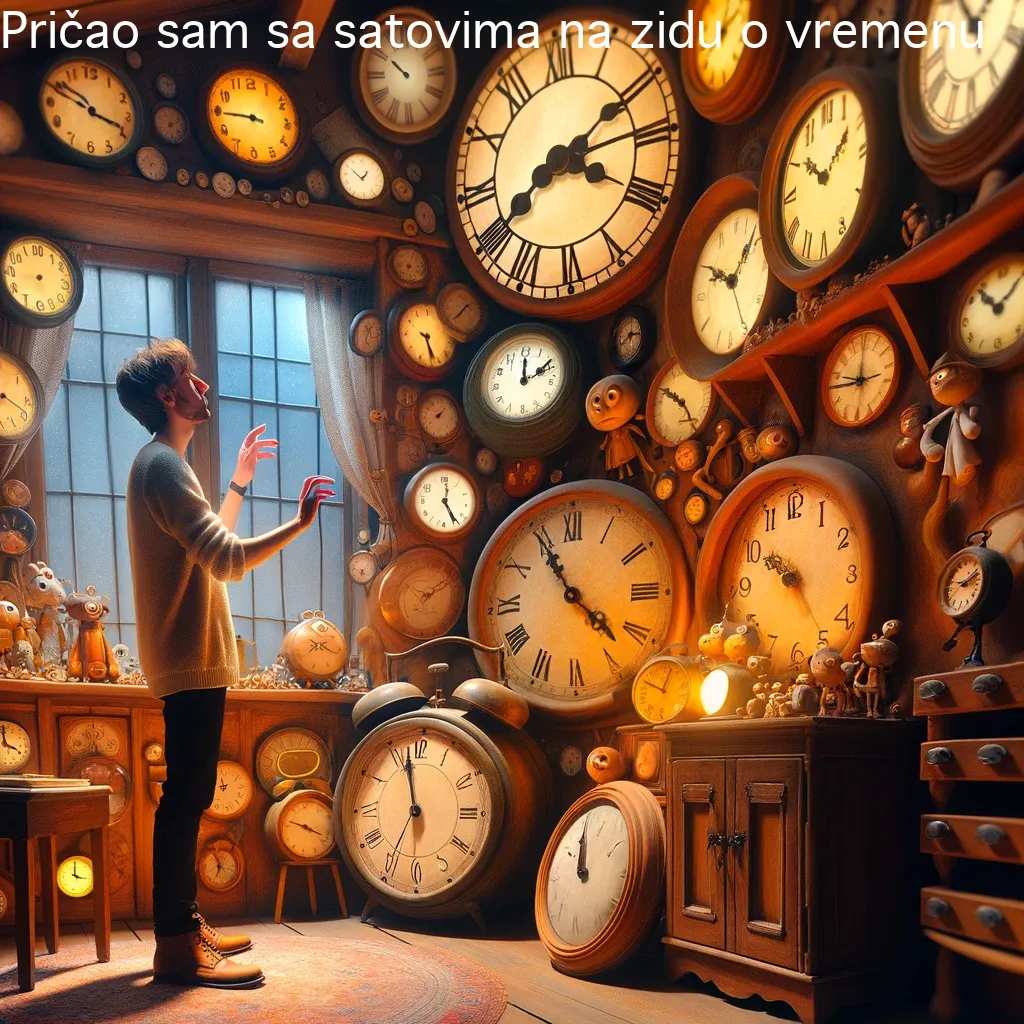
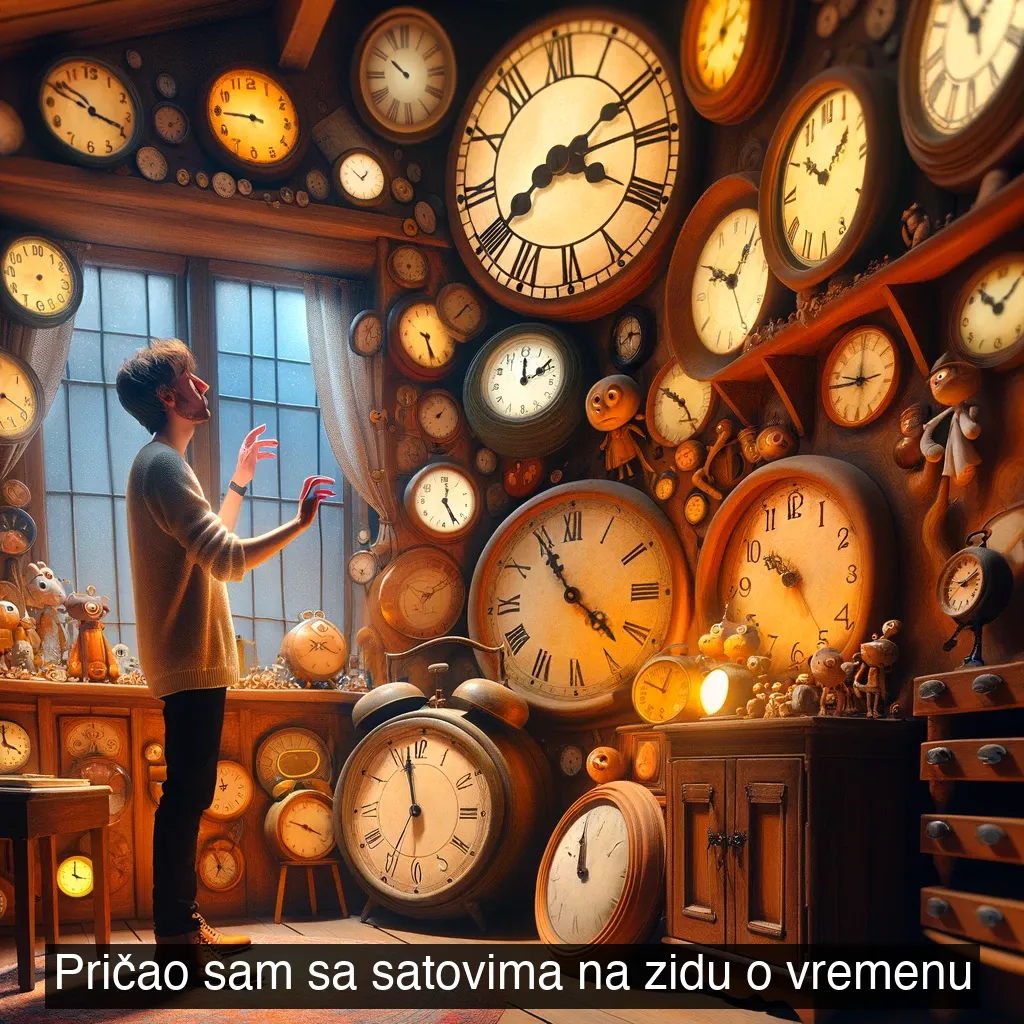
Pričao sam sa satovima na zidu o vremenu

diff --git a/chat-gpt/add-text-to-image.py b/chat-gpt/add-text-to-image.py
@@ -1,5 +1,15 @@
 from PIL import Image, ImageDraw, ImageFont
 
+#https://levelup.gitconnected.com/how-to-properly-calculate-text-size-in-pil-images-17a2cc6f51fd
+def get_text_dimensions(text_string, font):
+    # https://stackoverflow.com/a/46220683/9263761
+    ascent, descent = font.getmetrics()
+
+    text_width = font.getmask(text_string).getbbox()[2]
+    text_height = font.getmask(text_string).getbbox()[3] + descent
+
+    return (text_width, text_height)
+
 def add_text_to_image(image_path, output_path, text, font_path, font_size=48):
     """
     Adds text to an image and saves the result.
@@ -19,16 +29,22 @@ def add_text_to_image(image_path, output_path, text, font_path, font_size=48):
 
     # Load the font
     font = ImageFont.truetype(font_path, font_size)
-    print(font.getsize(text))
-
 
     # Calculate text position (bottom center)
-    # text_width, text_height = draw.textsize(text, font=font)
-    # text_x = (image.width - text_width) / 2
-    # text_y = image.height - text_height - 10  # Adjust as needed
+    text_width, text_height = get_text_dimensions(text, font)
+    text_x = (image.width - text_width) / 2
+    text_y = image.height - text_height - 24  # Adjust as needed
 
-    text_x = 0
-    text_y = 0
+    # Create a separate image for the semi-transparent rectangle
+    rect_image = Image.new('RGBA', image.size, (0, 0, 0, 0))
+    rect_draw = ImageDraw.Draw(rect_image)
+
+    # Draw a semi-transparent rectangle (80% opacity)
+    opacity = int(255 * 0.8)  # 80% opacity
+    rect_draw.rectangle([text_x - 8, text_y - 8, text_x + text_width + 8, text_y + text_height + 8], fill=(0, 0, 0, opacity))
+
+    # Blend this rectangle with the base image
+    image.paste(rect_image, (0, 0), rect_image)
 
     # Specify text color (change as needed)
     text_color = "white"
@@ -45,7 +61,7 @@ output_path = 'Pričao_sam_sa_satovima_na_zidu_o_vremenu_output.webp'  # Update 
 text = "Pričao sam sa satovima na zidu o vremenu"
 
 # font_path = 'path_to_your_font.ttf'  # Update this path with a font that supports Serbian characters
-font_path = '/System/Library/Fonts/Geneva.ttf'
+font_path = '/System/Library/Fonts/Helvetica.ttc'
 
 # Call the function
 add_text_to_image(image_path, output_path, text, font_path)
